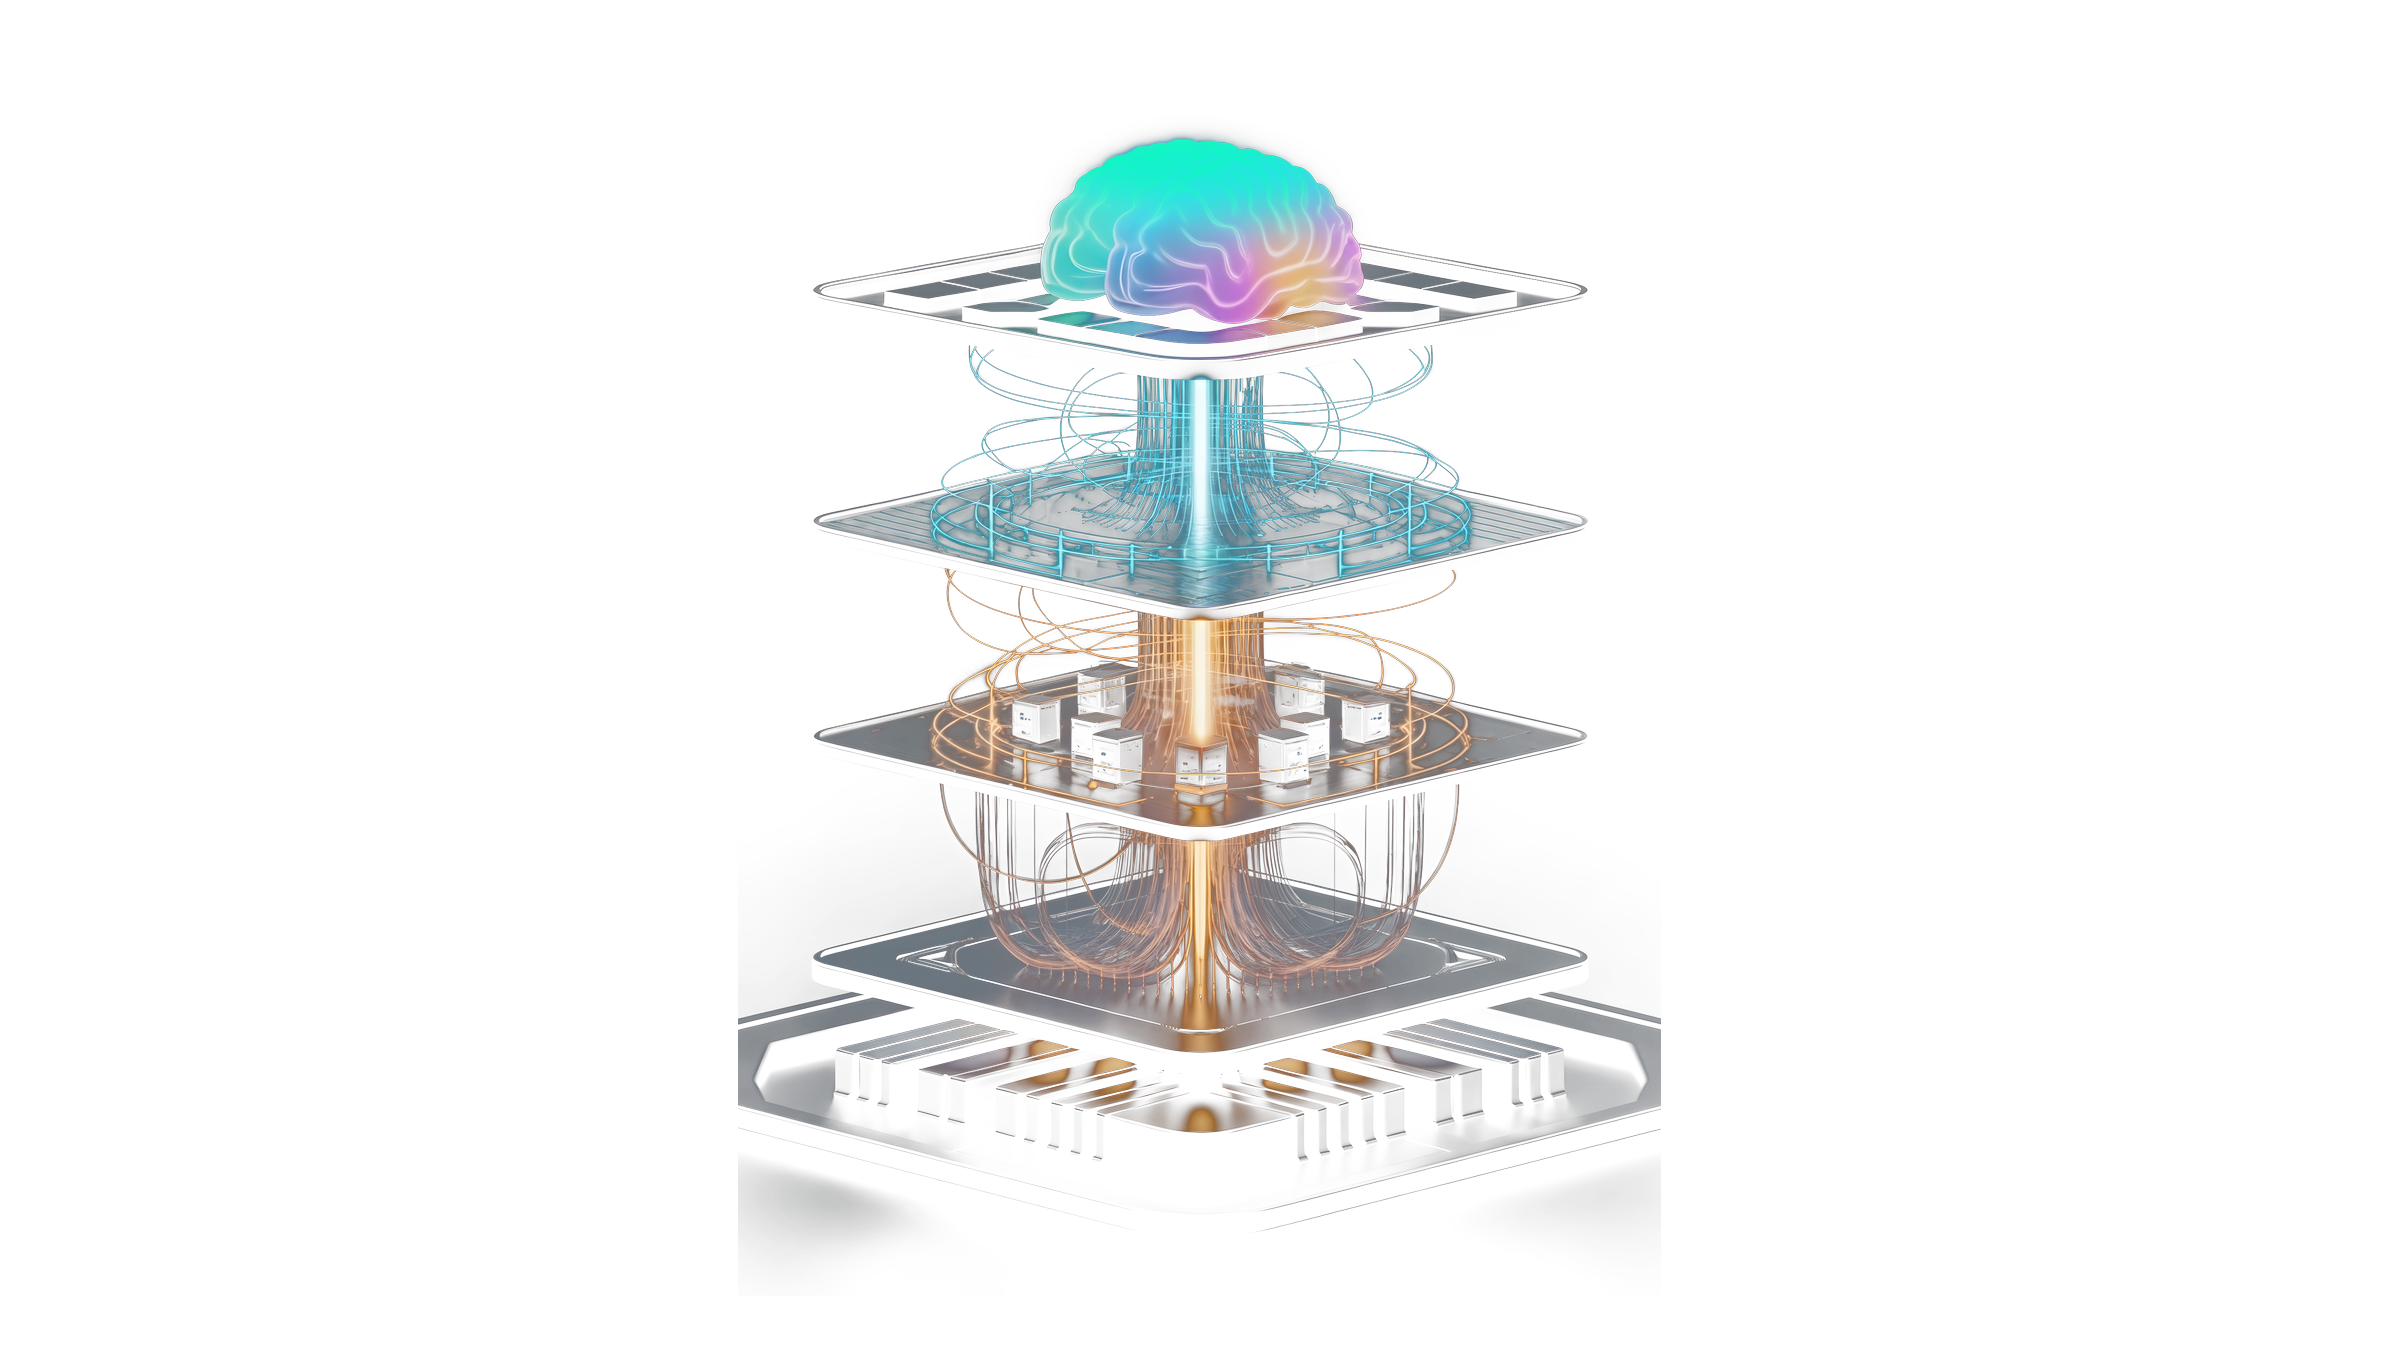
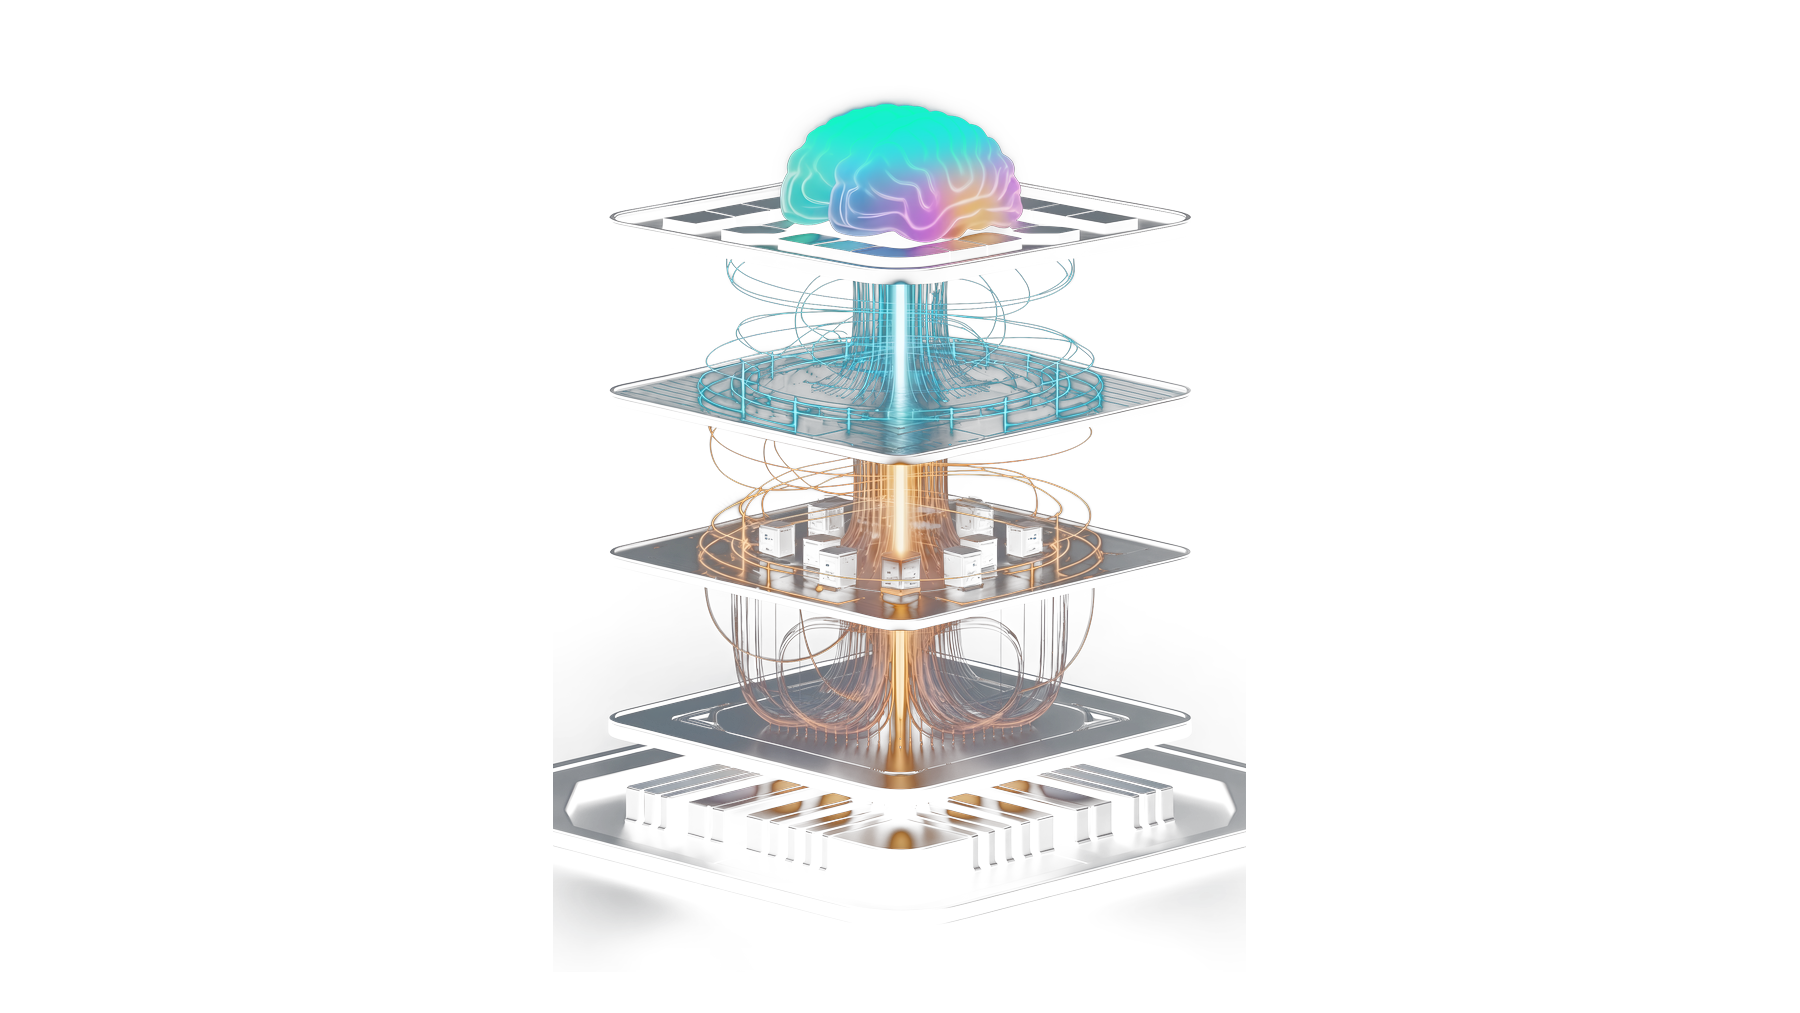
Launch-readiness batch 1: fact integrity, claim honesty, GEO, perf
From the launch-readiness audit — the unambiguous fixes:
- Fact integrity: Kriya primitive count 250+ -> 500+ across the three live
  components (PlatformExplorer, PlatformLayers, platform/layers.ts) so the site
  no longer contradicts /platform's copy + JSON-LD; canonical is 500+.
- Claim honesty: /trust standards grid now states formal certifications are
  in progress (architecture built to the frameworks today), so the marks can't
  read as held certs. World Lending Model close softened — accountability is the
  primary claim, borrower access is conditional/secondary (POSITIONING claim floor).
- Voice: drop the "doesn't just answer — it acts" antithesis on the Kula card.
- GEO: rewrite public/llms.txt to the banking-led spine, fix /blog -> /insights
  on five article links, and 250+ -> 500+.
- Perf: add width/height to the logo <img> (CLS); re-bake layers-wide.png at
  1800px (1.33MB -> 794KB). Production next build verified: 35/35 static, no
  warnings, homepage 144kB First Load JS.

diff --git a/components/KrimLogoAnimated.tsx b/components/KrimLogoAnimated.tsx
@@ -21,5 +21,8 @@ export default function KrimLogoAnimated({
   title?: string
 }) {
   // eslint-disable-next-line @next/next/no-img-element
-  return <img src="/brand/logo/KRIM-horizontal-animated-dark.svg" alt={title} className={className} />
+  return (
+    // width/height match the SVG viewBox aspect (~4.18:1) so the box is reserved before paint (no CLS)
+    <img src="/brand/logo/KRIM-horizontal-animated-dark.svg" alt={title} width={5919} height={1415} className={className} />
+  )
 }

diff --git a/app/research/world-lending-model/page.tsx b/app/research/world-lending-model/page.tsx
@@ -253,8 +253,8 @@ export default function WorldLendingModelPage() {
                 back of the book: collections data retrains origination, and a borrower’s underwriting
                 file guides the recovery conversation later.{' '}
                 <span className="text-mint">
-                  One shared intelligence means access for underserved borrowers and full
-                  accountability for regulators.
+                  One shared intelligence keeps every decision accountable to the regulator, and
+                  creates room to serve more borrowers safely where the risk genuinely supports it.
                 </span>
               </p>
             </Reveal>

diff --git a/components/home/PlatformExplorer.tsx b/components/home/PlatformExplorer.tsx
@@ -32,7 +32,7 @@ const LAYERS: Layer[] = [
     tag: 'The actions',
     summary: 'Change a rule once — not across a hundred scripts.',
     points: [
-      '250+ validated, credit-native actions, ready to use.',
+      '500+ validated, credit-native actions, ready to use.',
       'Rules travel with the action — change once, live everywhere.',
       'The layer that gets you past Compliance and Legal.',
     ],
@@ -66,7 +66,7 @@ const LAYERS: Layer[] = [
     key: 'kula',
     name: 'Kula',
     tag: 'The digital twin',
-    summary: "A role-tuned interface that doesn't just answer — it acts.",
+    summary: 'Your operation in plain language: ask, and it does the work.',
     points: [
       'Ask in plain language — by text or voice.',
       'It builds the workflow and runs it, on your sign-off.',

diff --git a/app/trust/page.tsx b/app/trust/page.tsx
@@ -309,7 +309,8 @@ export default function TrustPage() {
           </div>
           <Reveal delay={0.12}>
             <p className="mx-auto mt-9 max-w-[60ch] text-center font-sans text-body text-ink-3">
-              Documented, and ready for your security team to review.
+              The architecture is built to these frameworks today, with formal certifications in
+              progress. Documented and ready for your security team to review.
             </p>
           </Reveal>
         </Section>

diff --git a/components/home/PlatformLayers.tsx b/components/home/PlatformLayers.tsx
@@ -56,7 +56,7 @@ const LAYERS: Layer[] = [
   {
     key: 'kriya',
     name: 'Kriya',
-    role: 'The validated, credit-native actions every co-worker is built from — 250+ in all.',
+    role: 'The validated, credit-native actions every co-worker is built from — 500+ in all.',
     tag: 'PRIMITIVES',
     tone: 'operating',
   },

diff --git a/components/platform/layers.ts b/components/platform/layers.ts
@@ -20,7 +20,7 @@ export type Layer = {
 
 export const LAYERS: Layer[] = [
   { slug: 'kendra', name: 'Kendra', eyebrow: 'When it has to be right', oneLiner: 'The brain — validates every action, learns from every outcome.', tag: 'RUNTIME' },
-  { slug: 'kriya', name: 'Kriya', eyebrow: 'What it can do', oneLiner: '250+ validated, credit-native action primitives.', tag: 'PRIMITIVES' },
+  { slug: 'kriya', name: 'Kriya', eyebrow: 'What it can do', oneLiner: '500+ validated, credit-native action primitives.', tag: 'PRIMITIVES' },
   { slug: 'karta', name: 'Karta', eyebrow: 'Who does the work', oneLiner: 'Intelligent co-workers, composed from primitives.', tag: 'CO-WORKERS' },
   { slug: 'kupa', name: 'Kupa', eyebrow: 'Where you stay in control', oneLiner: 'The glass cockpit — supervise, configure, monitor and audit every action.', tag: 'COMMAND CENTER' },
   { slug: 'kula', name: 'Kula', eyebrow: 'For your teams', oneLiner: 'Ask in plain language; the runtime proposes the work and waits for your sign-off.', tag: 'ENTERPRISE INTERFACE' },

diff --git a/scripts/adapt-backgrounds.py b/scripts/adapt-backgrounds.py
@@ -49,8 +49,10 @@ duo = Image.merge('RGB', (lum.point(LR), lum.point(LG), lum.point(LB)))
 rgb = Image.composite(duo, rgb, mask)
 recol = Image.merge('RGBA', (*rgb.split(), alpha))
 
-# Widescreen bake: stack centred on transparent 2400x1350, bottom feathered to alpha.
-LW, LH = 2400, 1350
+# Widescreen bake: stack centred on a transparent canvas, bottom feathered to alpha.
+# Held at 0.32 opacity as a faded cover, so a viewport-scale canvas is plenty — kept
+# small to keep the asset light on the critical path.
+LW, LH = 1800, 1013
 sh = round(LH * 0.92)                       # 1242
 sw = round(recol.width * sh / recol.height)  # 923
 stack = recol.resize((sw, sh), LANCZOS)